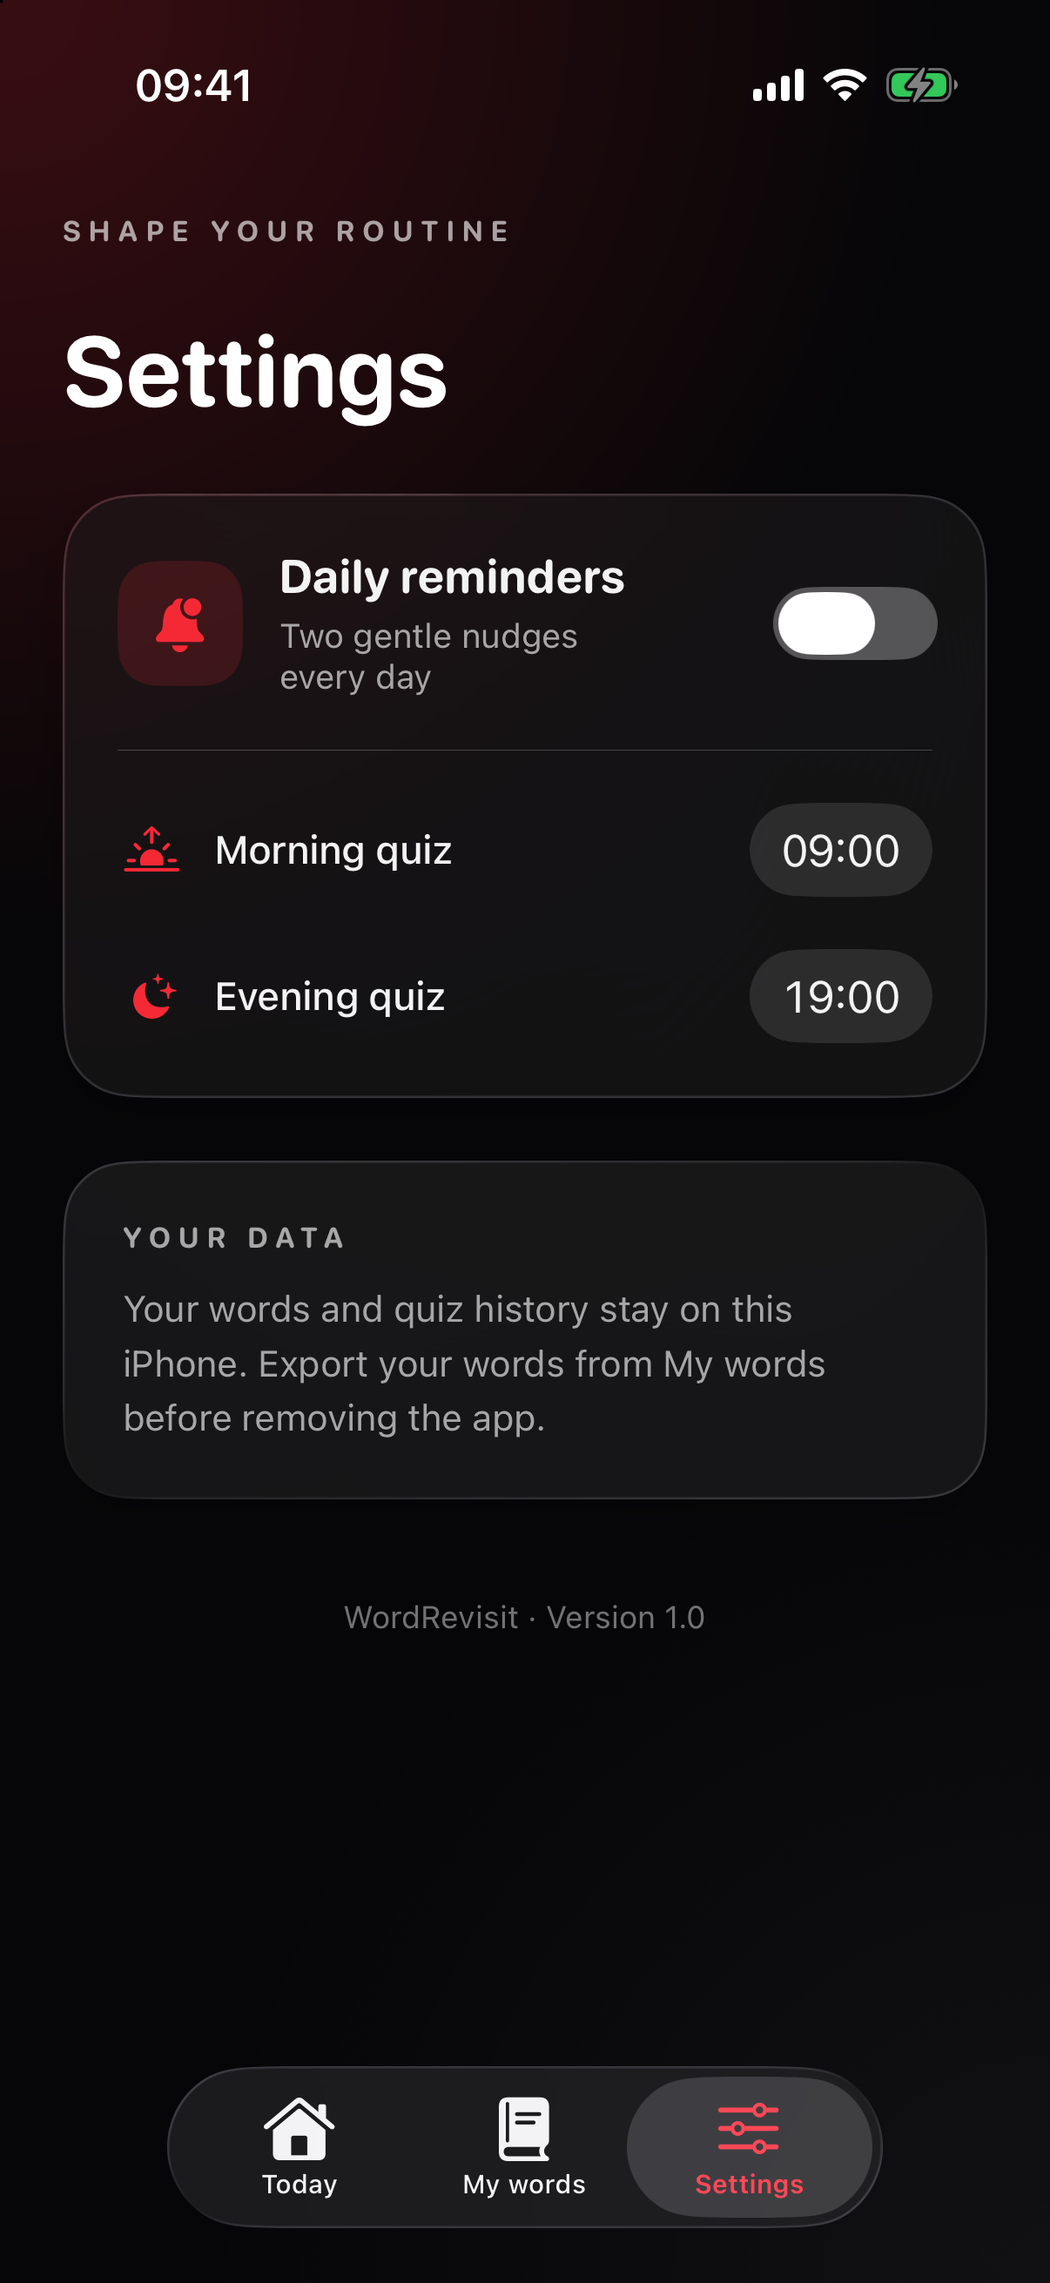
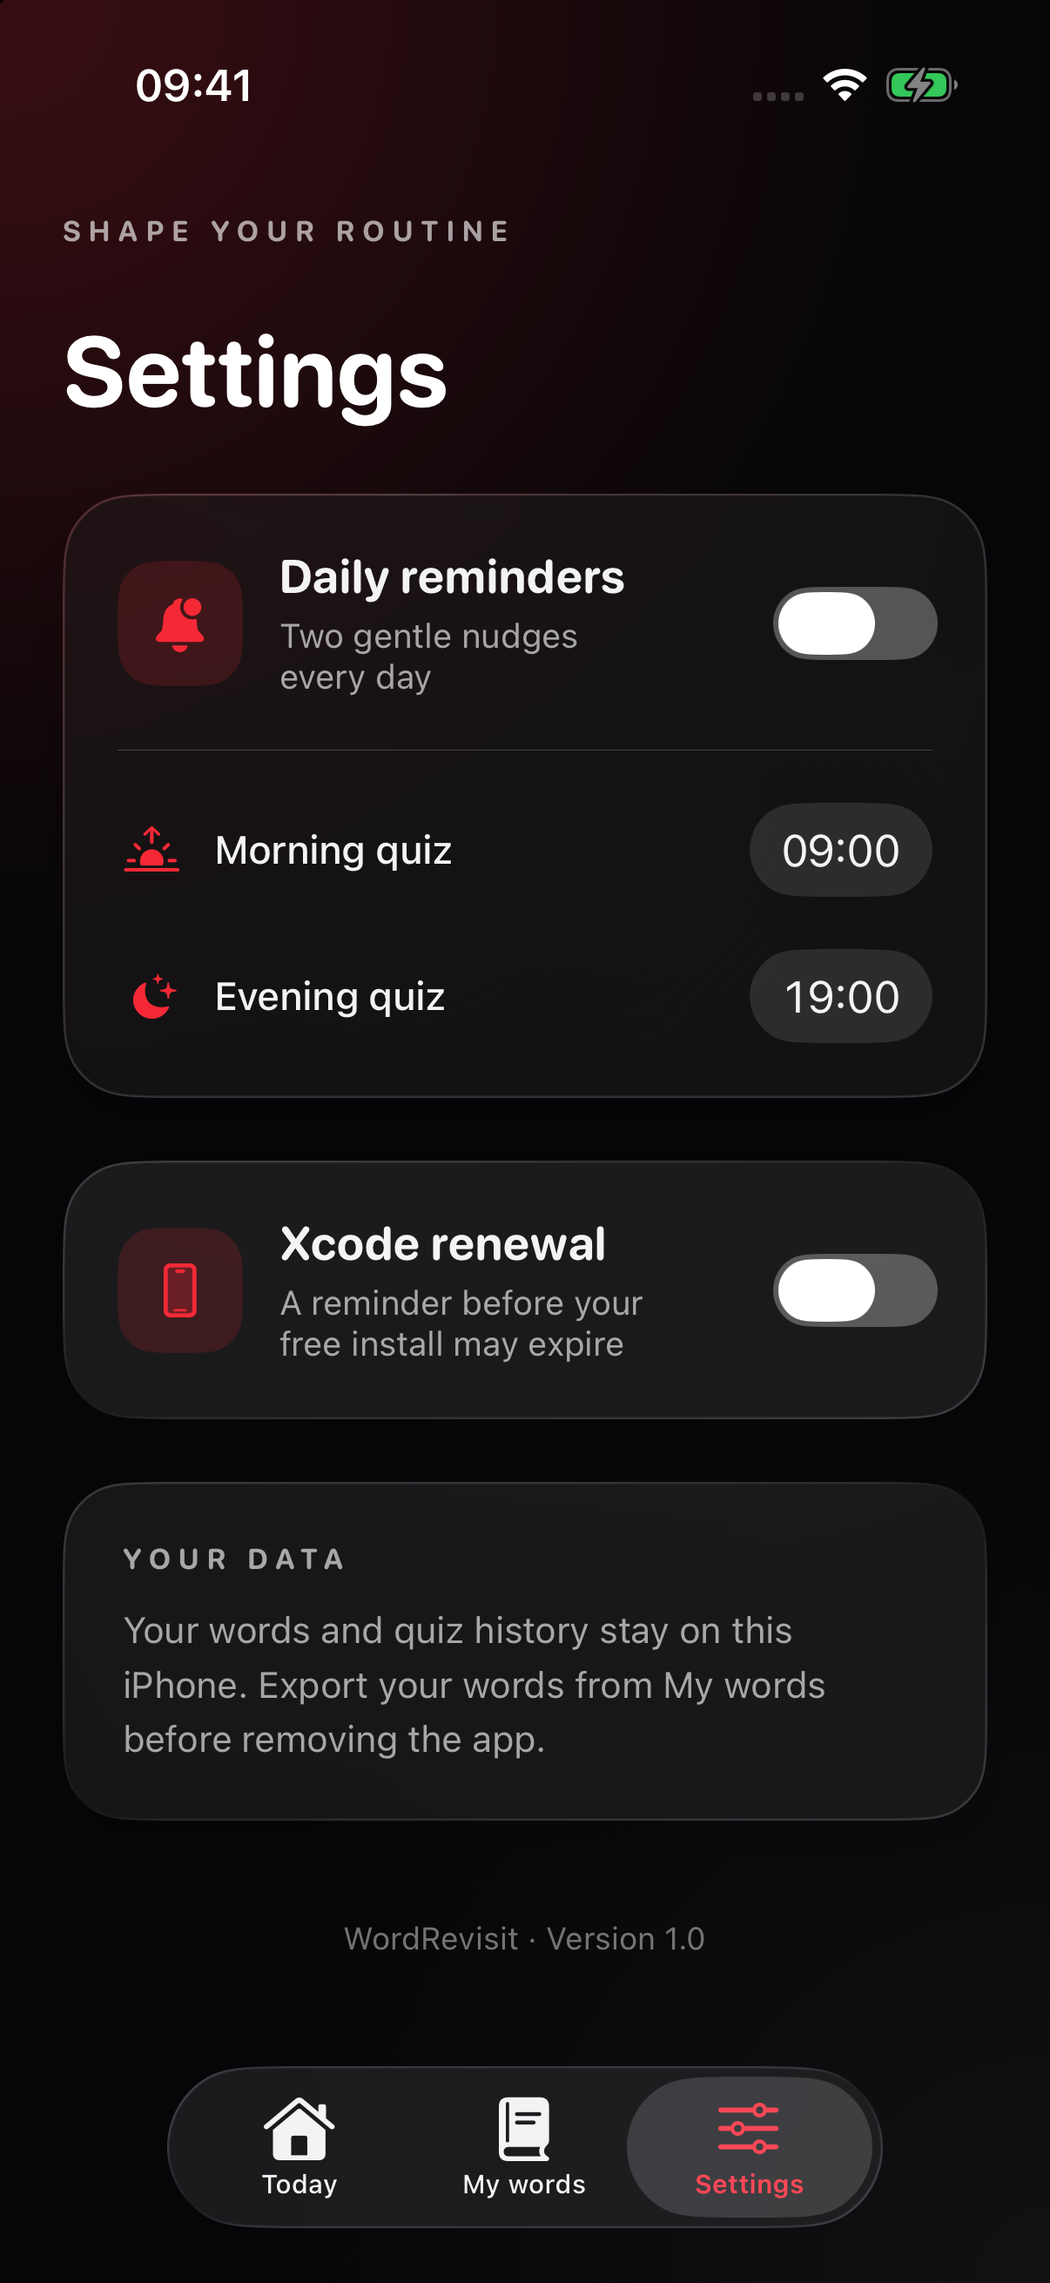
Fix quiz submissions and add Xcode renewal reminder

diff --git a/WordRevisit/Sources/Views/QuizView.swift b/WordRevisit/Sources/Views/QuizView.swift
@@ -59,7 +59,8 @@ struct QuizView: View {
     }
 
     private var QuestionState: some View {
-        VStack(alignment: .leading, spacing: 28) {
+        let Question = Questions[Index]
+        return VStack(alignment: .leading, spacing: 28) {
             GeometryReader { Geometry in
                 ZStack(alignment: .leading) {
                     Capsule().fill(.white.opacity(0.12))
@@ -72,7 +73,7 @@ struct QuizView: View {
 
             VStack(alignment: .leading, spacing: 12) {
                 SectionEyebrow(Title: Mode == .Easy ? "Translate this word" : "Find the English word")
-                Text(Questions[Index].Prompt)
+                Text(Question.Prompt)
                     .font(.system(size: 42, weight: .bold, design: .rounded))
                     .minimumScaleFactor(0.7)
                     .lineLimit(3)
@@ -88,11 +89,12 @@ struct QuizView: View {
             VStack(alignment: .leading, spacing: 13) {
                 SectionEyebrow(Title: "Your answer")
                 TextField("Type what you remember...", text: $Input)
+                    .id(Question.id)
                     .textInputAutocapitalization(.never)
                     .autocorrectionDisabled()
                     .submitLabel(.done)
                     .focused($AnswerFocused)
-                    .onSubmit { if !Submitted { CheckAnswer() } }
+                    .onSubmit { CheckAnswer(For: Question) }
                     .font(.system(size: 18, weight: .medium))
                     .padding(18)
                     .background(.white.opacity(0.08), in: RoundedRectangle(cornerRadius: 18))
@@ -106,10 +108,10 @@ struct QuizView: View {
                     Label(WasCorrect ? "You got it" : "Keep this one close", systemImage: WasCorrect ? "checkmark.circle.fill" : "arrow.uturn.backward.circle.fill")
                         .font(.system(size: 16, weight: .bold, design: .rounded))
                         .foregroundStyle(WasCorrect ? Palette.White : Palette.Accent)
-                    Text(Questions[Index].Answer)
+                    Text(Question.Answer)
                         .font(.system(size: 24, weight: .bold, design: .rounded))
-                    if !Questions[Index].Entry.Definition.isEmpty {
-                        Text(Questions[Index].Entry.Definition)
+                    if !Question.Entry.Definition.isEmpty {
+                        Text(Question.Entry.Definition)
                             .font(.system(size: 14))
                             .foregroundStyle(Palette.Muted)
                     }
@@ -119,12 +121,17 @@ struct QuizView: View {
                 .FrostedCard(CornerRadius: 22)
             }
 
-            Button(Submitted ? (Index == Questions.count - 1 ? "See results" : "Next word") : "Check answer") {
-                if Submitted { Advance() } else { CheckAnswer() }
+            if Submitted {
+                Button(Index == Questions.count - 1 ? "See results" : "Next word") {
+                    Advance(From: Question)
+                }
+                .buttonStyle(PrimaryActionStyle(Tint: Mode == .Easy ? Palette.White : Palette.Accent))
+            } else {
+                Button("Check answer") { CheckAnswer(For: Question) }
+                    .buttonStyle(PrimaryActionStyle(Tint: Mode == .Easy ? Palette.White : Palette.Accent))
+                    .disabled(Input.trimmingCharacters(in: .whitespacesAndNewlines).isEmpty)
+                    .opacity(Input.trimmingCharacters(in: .whitespacesAndNewlines).isEmpty ? 0.5 : 1)
             }
-            .buttonStyle(PrimaryActionStyle(Tint: Mode == .Easy ? Palette.White : Palette.Accent))
-            .disabled(!Submitted && Input.trimmingCharacters(in: .whitespacesAndNewlines).isEmpty)
-            .opacity(!Submitted && Input.trimmingCharacters(in: .whitespacesAndNewlines).isEmpty ? 0.5 : 1)
         }
     }
 
@@ -173,16 +180,18 @@ struct QuizView: View {
         .frame(maxWidth: .infinity)
     }
 
-    private func CheckAnswer() {
-        guard !Submitted, !Input.trimmingCharacters(in: .whitespacesAndNewlines).isEmpty else { return }
-        WasCorrect = QuizPlanner.Matches(Input, Answer: Questions[Index].Answer)
-        if WasCorrect { CorrectCount += 1 }
-        Store.RecordAnswer(For: Questions[Index].Entry.Id, IsCorrect: WasCorrect)
-        AnswerFocused = false
+    private func CheckAnswer(For Question: QuizQuestion) {
+        guard !Submitted, Questions[Index].id == Question.id,
+              !Input.trimmingCharacters(in: .whitespacesAndNewlines).isEmpty else { return }
         Submitted = true
+        WasCorrect = QuizPlanner.Matches(Input, Answer: Question.Answer)
+        if WasCorrect { CorrectCount += 1 }
+        Store.RecordAnswer(For: Question.Entry.Id, IsCorrect: WasCorrect)
+        AnswerFocused = false
     }
 
-    private func Advance() {
+    private func Advance(From Question: QuizQuestion) {
+        guard Submitted, Questions[Index].id == Question.id else { return }
         if Index + 1 == Questions.count {
             Store.FinishQuiz(Mode: Mode, Correct: CorrectCount, Total: Questions.count)
             IsFinished = true

diff --git a/WordRevisit/Sources/Views/SettingsView.swift b/WordRevisit/Sources/Views/SettingsView.swift
@@ -51,6 +51,58 @@ struct SettingsView: View {
                     .padding(21)
                     .FrostedCard(CornerRadius: 27)
 
+                    VStack(alignment: .leading, spacing: 18) {
+                        HStack(spacing: 14) {
+                            Image(systemName: "iphone")
+                                .font(.system(size: 20))
+                                .foregroundStyle(Palette.Accent)
+                                .frame(width: 48, height: 48)
+                                .background(Palette.Accent.opacity(0.16), in: RoundedRectangle(cornerRadius: 15))
+                            VStack(alignment: .leading, spacing: 4) {
+                                Text("Xcode renewal")
+                                    .font(.system(size: 18, weight: .bold, design: .rounded))
+                                Text("A reminder before your free install may expire")
+                                    .font(.system(size: 13))
+                                    .foregroundStyle(Palette.Muted)
+                            }
+                            Spacer()
+                            Toggle("Xcode renewal reminder", isOn: Binding(
+                                get: { Store.RenewalReminderEnabled },
+                                set: { Enabled in
+                                    Store.RenewalReminderEnabled = Enabled
+                                    if Enabled && Store.XcodeInstalledAt == nil { Store.XcodeInstalledAt = .now }
+                                    UpdateRenewalReminder()
+                                }
+                            ))
+                            .labelsHidden()
+                            .tint(Palette.Accent)
+                            .disabled(IsUpdating)
+                        }
+                        if Store.RenewalReminderEnabled {
+                            Divider().overlay(.white.opacity(0.08))
+                            if let InstalledAt = Store.XcodeInstalledAt,
+                               let ReminderAt = ReminderScheduler.RenewalDate(From: InstalledAt) {
+                                Text(ReminderAt > .now
+                                     ? "Next reminder: \(ReminderAt.formatted(date: .abbreviated, time: .shortened))"
+                                     : "Time to reinstall from Xcode.")
+                                    .font(.system(size: 14))
+                                    .foregroundStyle(Palette.Muted)
+                            }
+                            Button("I reinstalled from Xcode") {
+                                Store.XcodeInstalledAt = .now
+                                UpdateRenewalReminder()
+                            }
+                            .font(.system(size: 15, weight: .semibold))
+                            .foregroundStyle(Palette.Accent)
+                            .disabled(IsUpdating)
+                            Text("Tap after each Xcode install to restart the six-day countdown.")
+                                .font(.system(size: 12))
+                                .foregroundStyle(Palette.Muted)
+                        }
+                    }
+                    .padding(21)
+                    .FrostedCard(CornerRadius: 27)
+
                     VStack(alignment: .leading, spacing: 12) {
                         SectionEyebrow(Title: "Your data")
                         Text("Your words and quiz history stay on this iPhone. Export your words from My words before removing the app.")
@@ -88,6 +140,21 @@ struct SettingsView: View {
                 Store.RemindersEnabled = false
                 Store.SaveSettings()
                 Notice = "Allow notifications in iPhone Settings, then turn reminders on again."
+            }
+            IsUpdating = false
+        }
+    }
+
+    private func UpdateRenewalReminder() {
+        Store.SaveSettings()
+        IsUpdating = true
+        Task {
+            let Scheduled = await ReminderScheduler.SetRenewal(Enabled: Store.RenewalReminderEnabled,
+                                                               InstalledAt: Store.XcodeInstalledAt)
+            if !Scheduled {
+                Store.RenewalReminderEnabled = false
+                Store.SaveSettings()
+                Notice = "Allow notifications in iPhone Settings, then turn Xcode renewal on again."
             }
             IsUpdating = false
         }

diff --git a/WordRevisit/Sources/Services/ReminderScheduler.swift b/WordRevisit/Sources/Services/ReminderScheduler.swift
@@ -3,6 +3,11 @@ import UserNotifications
 
 enum ReminderScheduler {
     private static let Ids = ["WordRevisit.Morning", "WordRevisit.Evening"]
+    private static let RenewalId = "WordRevisit.XcodeRenewal"
+
+    static func RenewalDate(From InstalledAt: Date, Calendar: Calendar = .current) -> Date? {
+        Calendar.date(byAdding: .day, value: 6, to: InstalledAt)
+    }
 
     static func Set(Enabled: Bool, Morning: ReminderTime, Evening: ReminderTime) async -> Bool {
         let Center = UNUserNotificationCenter.current()
@@ -21,6 +26,27 @@ enum ReminderScheduler {
                 )
                 try await Center.add(UNNotificationRequest(identifier: Ids[Index], content: Content, trigger: Trigger))
             }
+            return true
+        } catch {
+            return false
+        }
+    }
+
+    static func SetRenewal(Enabled: Bool, InstalledAt: Date?) async -> Bool {
+        let Center = UNUserNotificationCenter.current()
+        Center.removePendingNotificationRequests(withIdentifiers: [RenewalId])
+        guard Enabled, let InstalledAt, let ReminderAt = RenewalDate(From: InstalledAt) else { return true }
+
+        do {
+            guard try await Center.requestAuthorization(options: [.alert, .badge, .sound]) else { return false }
+            let Seconds = ReminderAt.timeIntervalSinceNow
+            guard Seconds > 0 else { return true }
+            let Content = UNMutableNotificationContent()
+            Content.title = "WordRevisit may need renewal tomorrow"
+            Content.body = "Your free Xcode install may expire soon. Connect your iPhone and run the app from Xcode again."
+            Content.sound = .default
+            let Trigger = UNTimeIntervalNotificationTrigger(timeInterval: Seconds, repeats: false)
+            try await Center.add(UNNotificationRequest(identifier: RenewalId, content: Content, trigger: Trigger))
             return true
         } catch {
             return false

diff --git a/WordRevisit/Sources/Data/WordRepository.swift b/WordRevisit/Sources/Data/WordRepository.swift
@@ -7,6 +7,8 @@ private struct SavedData: Codable {
     var Morning: ReminderTime
     var Evening: ReminderTime
     var RemindersEnabled: Bool
+    var XcodeInstalledAt: Date?
+    var RenewalReminderEnabled: Bool?
 }
 
 @MainActor
@@ -16,6 +18,8 @@ final class WordRepository: ObservableObject {
     @Published var Morning = ReminderTime(Hour: 9, Minute: 0)
     @Published var Evening = ReminderTime(Hour: 19, Minute: 0)
     @Published var RemindersEnabled = false
+    @Published var XcodeInstalledAt: Date?
+    @Published var RenewalReminderEnabled = false
     @Published var ErrorMessage: String?
 
     private var CanSave = true
@@ -108,6 +112,9 @@ final class WordRepository: ObservableObject {
             Morning = Saved.Morning
             Evening = Saved.Evening
             RemindersEnabled = Saved.RemindersEnabled
+            XcodeInstalledAt = Saved.XcodeInstalledAt
+            RenewalReminderEnabled = Saved.RenewalReminderEnabled ?? false
+            if StarterVocabulary.UpgradeLegacyFellTranslation(&Entries) { Save() }
         } catch {
             CanSave = false
             ErrorMessage = "Your saved words could not be opened. The file was left untouched: \(error.localizedDescription)"
@@ -117,7 +124,9 @@ final class WordRepository: ObservableObject {
     private func Save() {
         do {
             let Snapshot = SavedData(Entries: Entries, History: History, Morning: Morning,
-                                     Evening: Evening, RemindersEnabled: RemindersEnabled)
+                                     Evening: Evening, RemindersEnabled: RemindersEnabled,
+                                     XcodeInstalledAt: XcodeInstalledAt,
+                                     RenewalReminderEnabled: RenewalReminderEnabled)
             let Data = try JSONEncoder().encode(Snapshot)
             try Data.write(to: FileURL, options: .atomic)
         } catch {

diff --git a/WordRevisit/Tests/LogicChecks.swift b/WordRevisit/Tests/LogicChecks.swift
@@ -11,6 +11,19 @@ enum LogicChecks {
         assert(Questions[0].Answer == "resilient")
         assert(QuizPlanner.Matches(" DÖZÜMLÜ ", Answer: Difficult.Translation))
         assert(!QuizPlanner.Matches("curious", Answer: Difficult.Translation))
+        var LegacyWords = [WordEntry(Term: "fell", Translation: "ağacı kəsmək"),
+                           WordEntry(Term: "fell", Translation: "my custom answer")]
+        assert(StarterVocabulary.UpgradeLegacyFellTranslation(&LegacyWords))
+        assert(QuizPlanner.Matches("agac kesmek", Answer: LegacyWords[0].Translation))
+        assert(QuizPlanner.Matches("yasayis muhiti", Answer: "yaşayış mühiti"))
+        assert(LegacyWords[1].Translation == "my custom answer")
+
+        var Calendar = Calendar(identifier: .gregorian)
+        Calendar.timeZone = TimeZone(identifier: "Europe/Berlin")!
+        let InstalledAt = Calendar.date(from: DateComponents(year: 2026, month: 10, day: 23, hour: 9))!
+        let ReminderAt = ReminderScheduler.RenewalDate(From: InstalledAt, Calendar: Calendar)!
+        let ReminderDay = Calendar.dateComponents([.year, .month, .day, .hour], from: ReminderAt)
+        assert(ReminderDay.year == 2026 && ReminderDay.month == 10 && ReminderDay.day == 29 && ReminderDay.hour == 9)
 
         let CSV = WordCSV.Encode([WordEntry(Term: "a,b", Translation: "söz", Definition: "A \"quoted\" meaning")])
         let Parsed = try WordCSV.Decode(CSV)

diff --git a/WordRevisit/Sources/Models/StarterVocabulary.swift b/WordRevisit/Sources/Models/StarterVocabulary.swift
@@ -8,7 +8,7 @@ enum StarterVocabulary {
         .init(Term: "habitat", Translation: "yaşayış mühiti"),
         .init(Term: "pollution", Translation: "çirklənmə"),
         .init(Term: "extend", Translation: "uzatmaq; genişləndirmək"),
-        .init(Term: "fell", Translation: "ağacı kəsmək", Definition: "To cut down a tree."),
+        .init(Term: "fell", Translation: "ağacı kəsmək; ağac kəsmək", Definition: "To cut down a tree."),
         .init(Term: "nutrients", Translation: "qida maddələri"),
         .init(Term: "terrestrial", Translation: "quruda yaşayan; yerüstü"),
         .init(Term: "aquatic", Translation: "suda yaşayan; suya aid"),
@@ -62,4 +62,12 @@ enum StarterVocabulary {
         .init(Term: "determine", Translation: "müəyyən etmək"),
         .init(Term: "accumulate", Translation: "yığılmaq; toplamaq")
     ]
+
+    static func UpgradeLegacyFellTranslation(_ Entries: inout [WordEntry]) -> Bool {
+        guard let Index = Entries.firstIndex(where: {
+            $0.Term == "fell" && $0.Translation == "ağacı kəsmək"
+        }) else { return false }
+        Entries[Index].Translation = "ağacı kəsmək; ağac kəsmək"
+        return true
+    }
 }

diff --git a/WordRevisit/Sources/Services/QuizPlanner.swift b/WordRevisit/Sources/Services/QuizPlanner.swift
@@ -24,6 +24,9 @@ enum QuizPlanner {
 
     private static func Normalize(_ Value: String) -> String {
         Value.trimmingCharacters(in: .whitespacesAndNewlines)
-            .folding(options: [.caseInsensitive, .diacriticInsensitive], locale: Locale(identifier: "az_AZ"))
+            .lowercased(with: Locale(identifier: "az_AZ"))
+            .replacingOccurrences(of: "ə", with: "e")
+            .replacingOccurrences(of: "ı", with: "i")
+            .folding(options: .diacriticInsensitive, locale: Locale(identifier: "az_AZ"))
     }
 }

diff --git a/WordRevisit/README.md b/WordRevisit/README.md
@@ -14,10 +14,12 @@ Captured from the running iPhone 17 Pro simulator on iOS 26.4. The interface use
 
 - **Easy recall:** English word → type its Azerbaijani translation.
 - **Hard recall:** Azerbaijani translation → type the English word.
+- Azerbaijani answers work with or without Azerbaijani keyboard characters.
 - Up to 20 questions per quiz, with words answered incorrectly selected first.
 - Add, edit, delete, and search words; optional definitions appear after a quiz answer.
 - Import and export words as CSV. A semicolon separates accepted alternative translations.
 - Two optional local notifications each day, with times chosen in Settings. No server or account is needed.
+- An optional Xcode renewal reminder six days after you mark an install in Settings.
 - Light, Dark, and Tinted Home Screen icon variants on iOS 18 and later.
 
 ## Run on an iPhone without the App Store
@@ -35,6 +37,8 @@ If Xcode says **“Your team has no devices from which to generate a provisionin
 
 The free Personal Team profile expires after **7 days**. Run the project from Xcode again to renew it. Export your words before removing the app or changing its bundle identifier. See [Apple's device-run guide](https://developer.apple.com/documentation/xcode/running-your-app-on-simulated-or-physical-devices) and [free-account limits](https://developer.apple.com/help/account/basics/about-your-developer-account).
 
+For a heads-up, turn on **Xcode renewal** in Settings. The app sends one local notification six days after the date you enable it or tap **I reinstalled from Xcode**. Tap that button after each successful reinstall. The reminder is an estimate because the app does not inspect your provisioning profile; it cannot renew the install for you.
+
 ## Code map
 
 ```text
@@ -48,7 +52,7 @@ Sources/
 The project uses SwiftUI, Foundation, and UserNotifications. There are no external packages, accounts, or cloud services. To run the small logic check on a Mac:
 
 ```bash
-swiftc Sources/Models/*.swift Sources/Services/QuizPlanner.swift Sources/Services/WordCSV.swift Tests/LogicChecks.swift -o /tmp/WordRevisitLogicChecks
+swiftc Sources/Models/*.swift Sources/Services/QuizPlanner.swift Sources/Services/WordCSV.swift Sources/Services/ReminderScheduler.swift Tests/LogicChecks.swift -o /tmp/WordRevisitLogicChecks
 /tmp/WordRevisitLogicChecks
 ```
 
